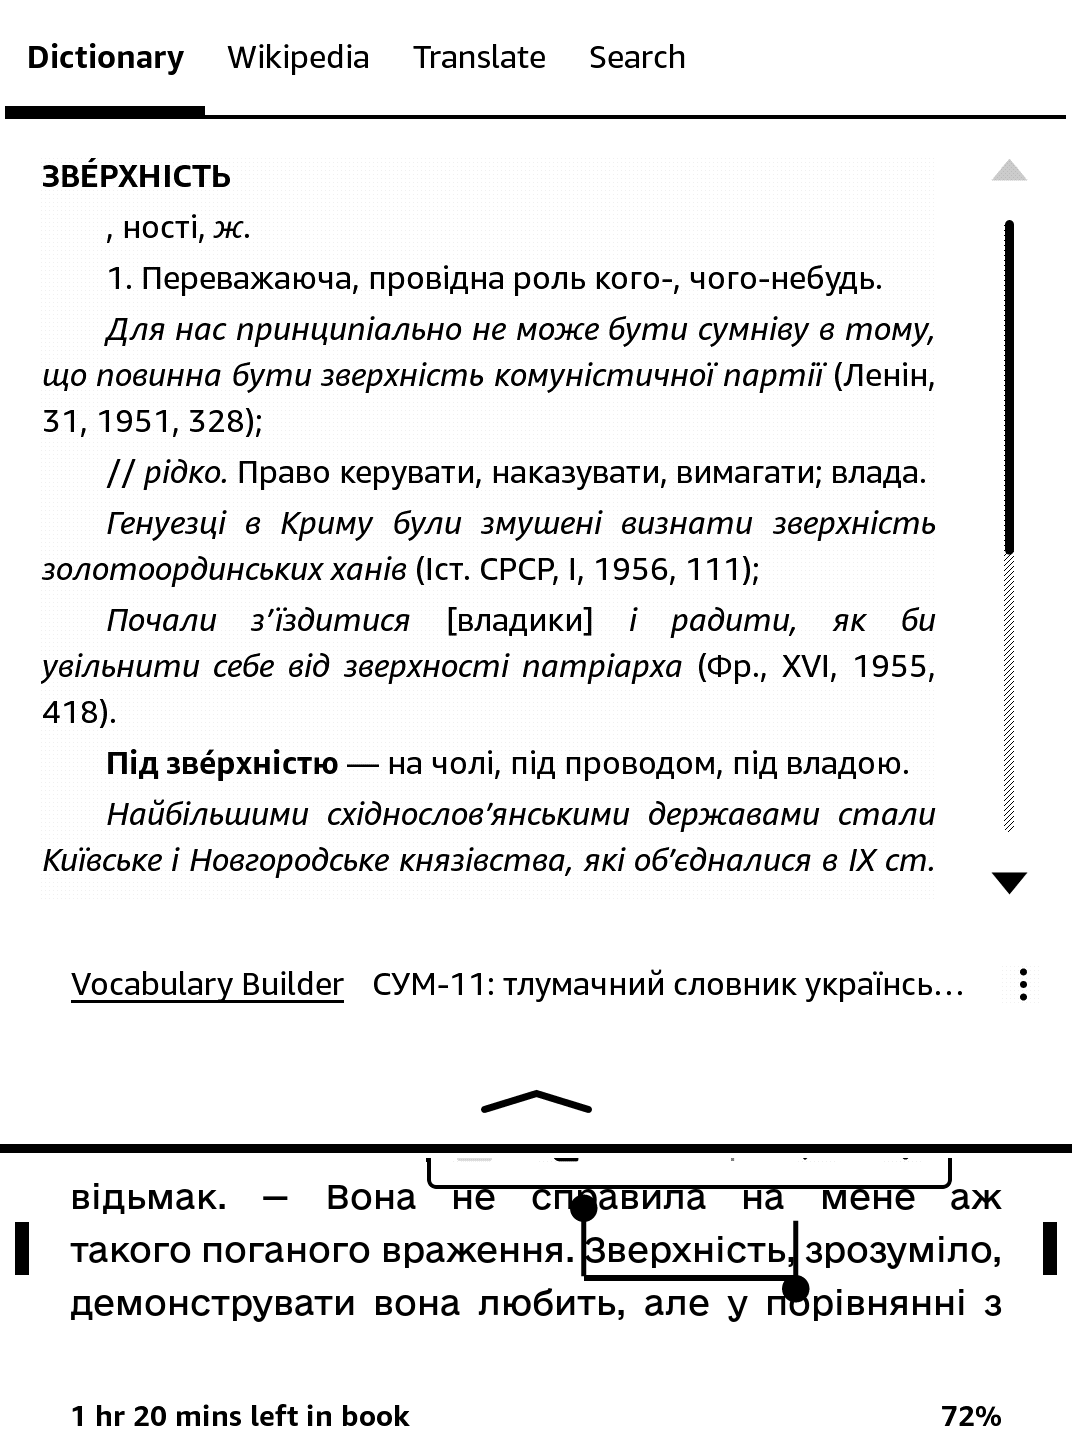
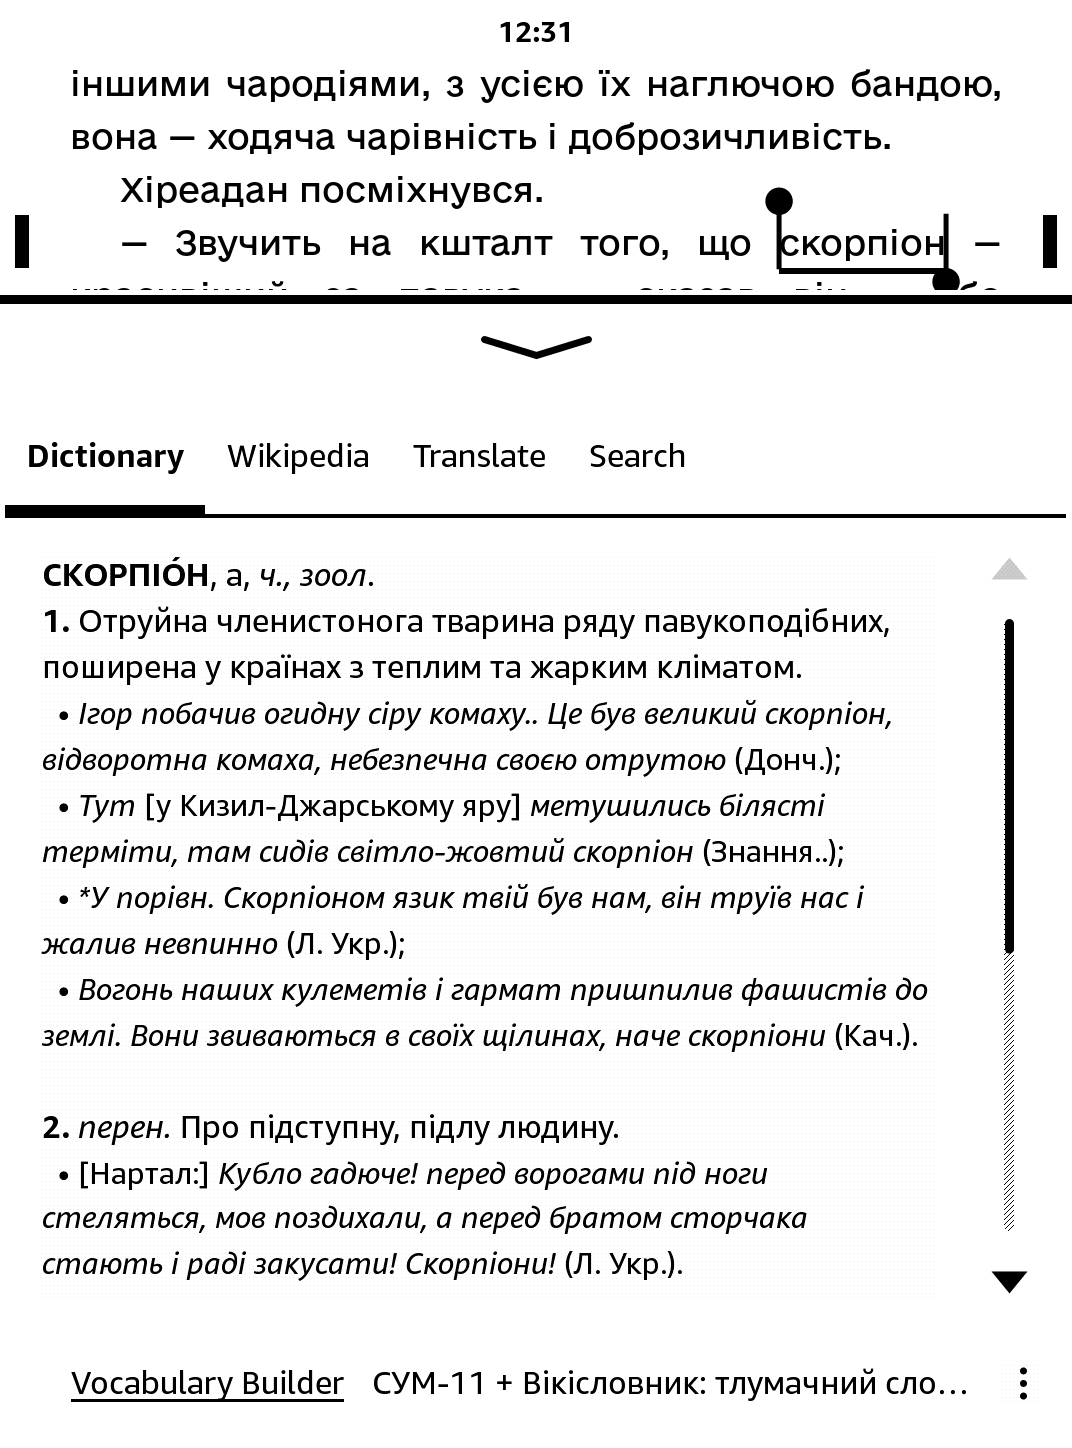
README: screenshots of the new popup layout

Changed region(s): [[0.0, 0.0, 1.0, 0.9945], [0.9235, 0.8391, 0.9851, 0.9012], [0.8927, 0.9634, 0.9235, 0.9945]]

diff --git a/README.md b/README.md
@@ -36,12 +36,12 @@
 
 <table>
   <tr>
-    <td align="center" width="50%"><img src="docs/screenshots/popup.png" alt="Спливне вікно зі статтею «скорпіон» у книжці"></td>
-    <td align="center" width="50%"><img src="docs/screenshots/expanded.png" alt="Розгорнута стаття «зверхність»"></td>
+    <td align="center" width="50%"><img src="docs/screenshots/popup.png" alt="Спливне вікно зі статтею «зверхність» у книжці"></td>
+    <td align="center" width="50%"><img src="docs/screenshots/expanded.png" alt="Розгорнута стаття «скорпіон»: значення, приклади, джерела"></td>
   </tr>
   <tr>
-    <td align="center"><sub>Утримали палець на слові «скорпіон»</sub></td>
-    <td align="center"><sub>«Зверхність» з початку речення: розгорнута стаття</sub></td>
+    <td align="center"><sub>Утримали палець на слові «Зверхність» на початку речення</sub></td>
+    <td align="center"><sub>Розгорнута стаття: значення, приклади з відступом, автори цитат</sub></td>
   </tr>
 </table>
 

diff --git a/README_EN.md b/README_EN.md
@@ -19,8 +19,8 @@ Long-press a word in a Ukrainian book to see its definition.
 
 <table>
   <tr>
-    <td align="center" width="50%"><img src="docs/screenshots/popup.png" alt="Lookup popup for «скорпіон» in a book"></td>
-    <td align="center" width="50%"><img src="docs/screenshots/expanded.png" alt="Expanded entry «зверхність»"></td>
+    <td align="center" width="50%"><img src="docs/screenshots/popup.png" alt="Lookup popup for «Зверхність» in a book"></td>
+    <td align="center" width="50%"><img src="docs/screenshots/expanded.png" alt="Expanded entry «скорпіон»"></td>
   </tr>
 </table>
 
